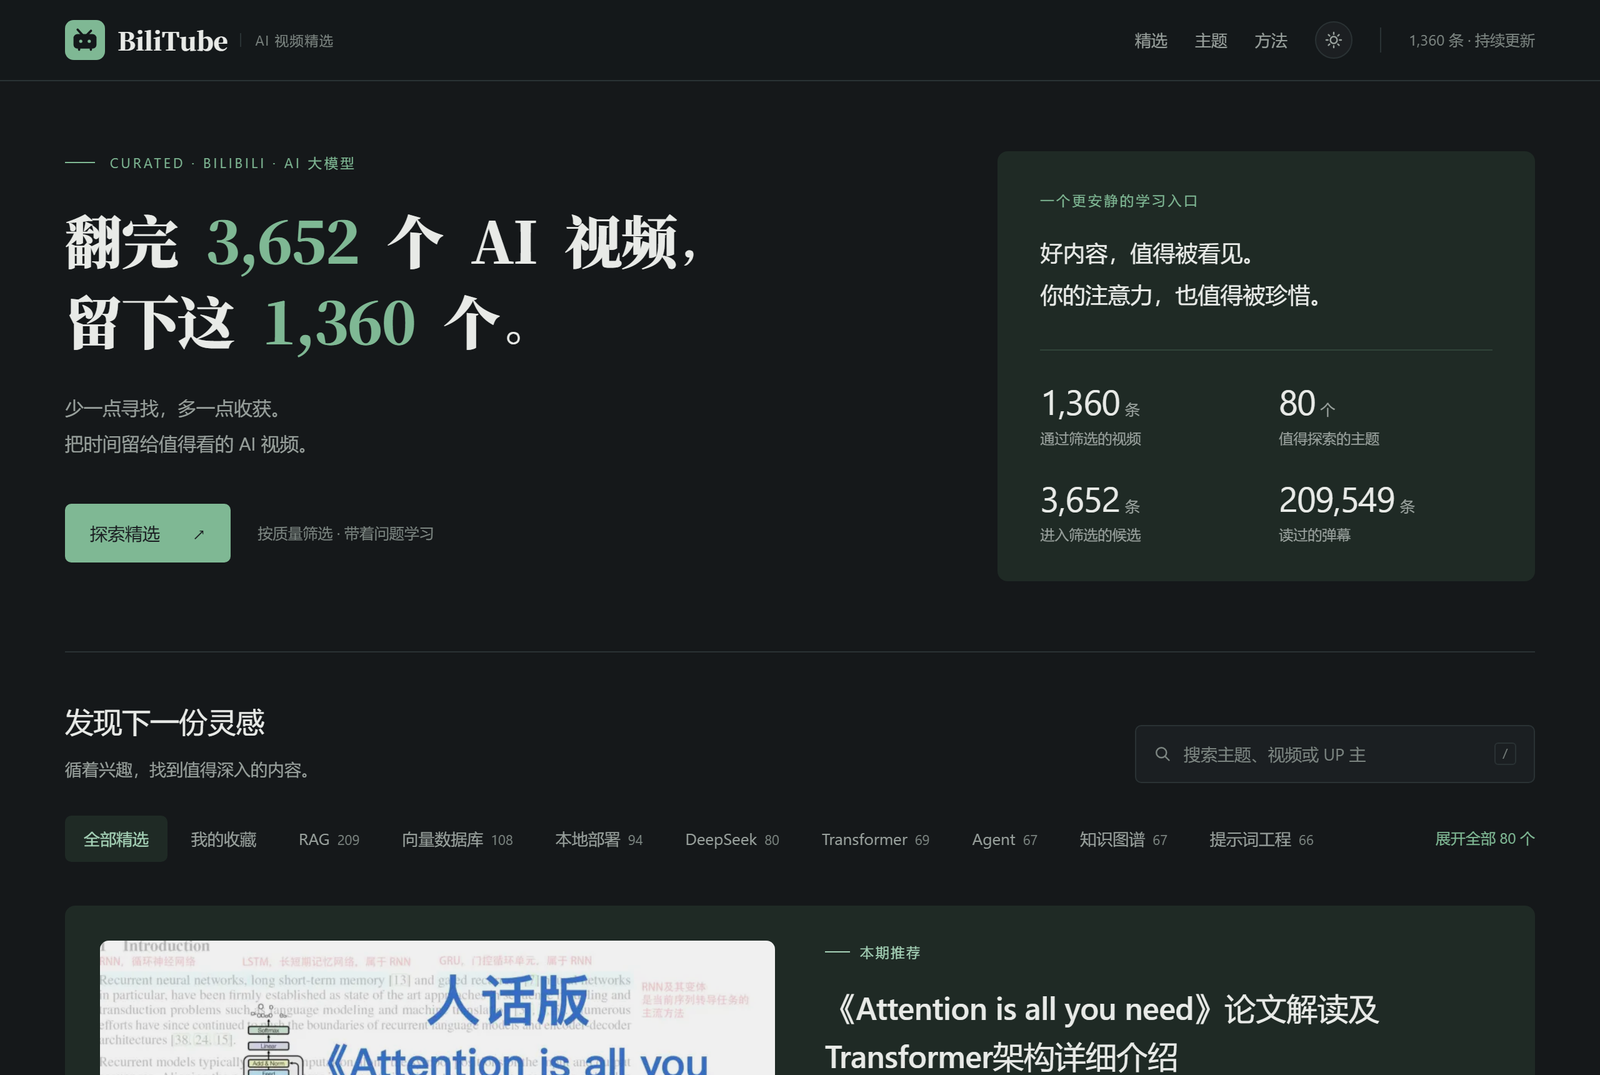
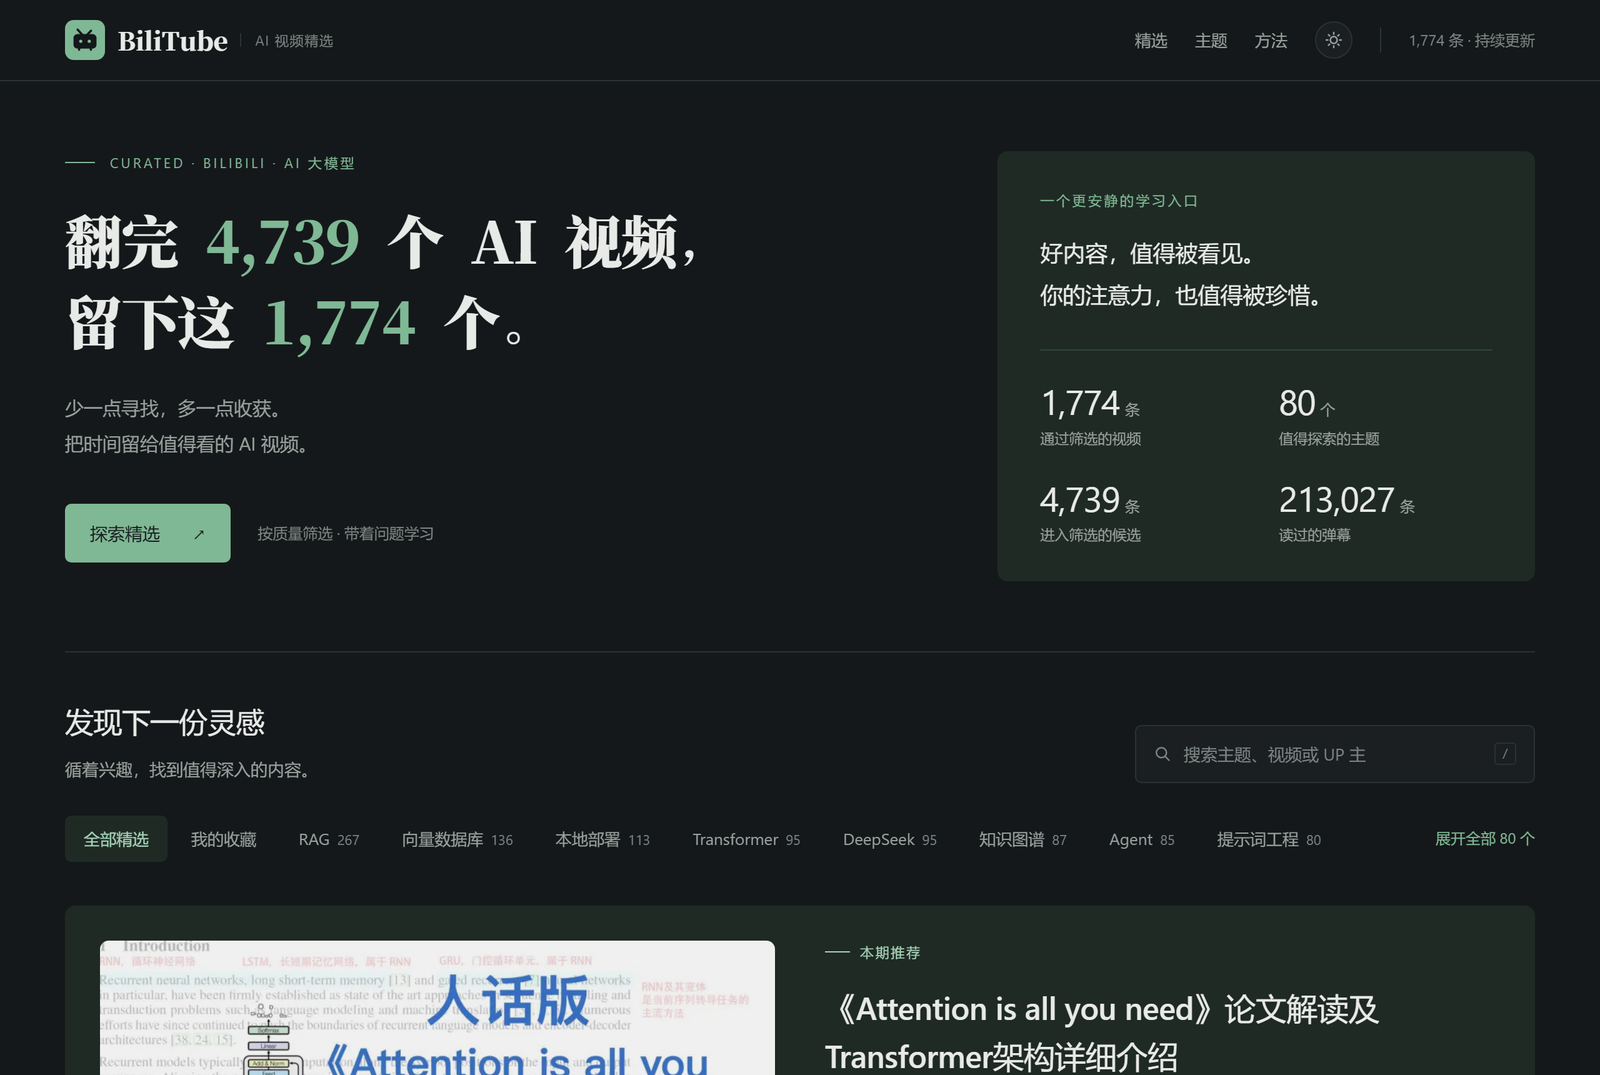
docs: 刷新 README 数据快照与首页截图
- 数字更新到 2026-11-10 周更结果（4,739 候选 / 1,774 精选 / 213,027 弹幕）
- 效果一节标注「数据每周更新，以下是某次快照」，避免每月被当成静态承诺
- 重拍首页浅色 / 深色截图

diff --git a/README.md b/README.md
@@ -4,7 +4,7 @@
 
 # BiliTube
 
-**翻完 3,652 个 B 站 AI 视频，留下这 1,360 个。**
+**翻完 4,739 个 B 站 AI 视频，留下这 1,774 个。**
 
 少一点寻找，多一点收获。把时间留给值得看的 AI 视频。
 
@@ -25,20 +25,22 @@
 B 站的 AI 大模型视频多到看不完：同一个话题有几十个版本，播放量高的未必讲得清楚，
 讲得清楚的又常常没人看。
 
-BiliTube 做的是**先筛后排**：从 3,652 个候选里按相关性、时长、分区硬过滤，
+BiliTube 做的是**先筛后排**：从 4,739 个候选里按相关性、时长、分区硬过滤，
 再按「分区 × 时长档」做分位归一打分，最后由大模型读完简介与弹幕逐条写判断，
-留下 1,360 个值得花时间的，做成一个能按主题、难度、时效筛选的静态站点。
+留下 1,774 个值得花时间的，做成一个能按主题、难度、时效筛选的静态站点。
 
 **它不推荐最火的，它推荐最值得看的。**
 
 ## 效果
 
+数据每周更新一次，下面是 **2026-11-10** 那次更新的快照：
+
 | 指标 | 数值 |
 | ---- | ---- |
-| 进入筛选的候选 | 3,652 条 |
-| 最终精选 | 1,360 条 |
+| 进入筛选的候选 | 4,739 条 |
+| 最终精选 | 1,774 条 |
 | 覆盖主题 | 80 个 |
-| 读过的弹幕样本 | 209,549 条 |
+| 读过的弹幕样本 | 213,027 条 |
 
 <details>
 <summary>深色模式</summary>
@@ -124,7 +126,7 @@ moqian-bilitube/
 
 ```text
 关键词矩阵 ──▶ 搜索采集 ──▶ 硬过滤 ──▶ 分位打分 ──▶ 弹幕采集 ──▶ 模型读内容 ──▶ 导出 JSON ──▶ 静态站
-  (20 个)        (3,652)      (1,360)     机器分         (1,360)      内容分 + 卡片      (1.4 MB)      (1,364 页)
+  (20 个)        (4,739)      (1,774)     机器分         (1,774)      内容分 + 卡片      (1.7 MB)      (1,776 页)
 ```
 
 分数由两部分相加：**互动信号**（收藏、投币、点赞、讨论、播放量，在同分区、同时长
